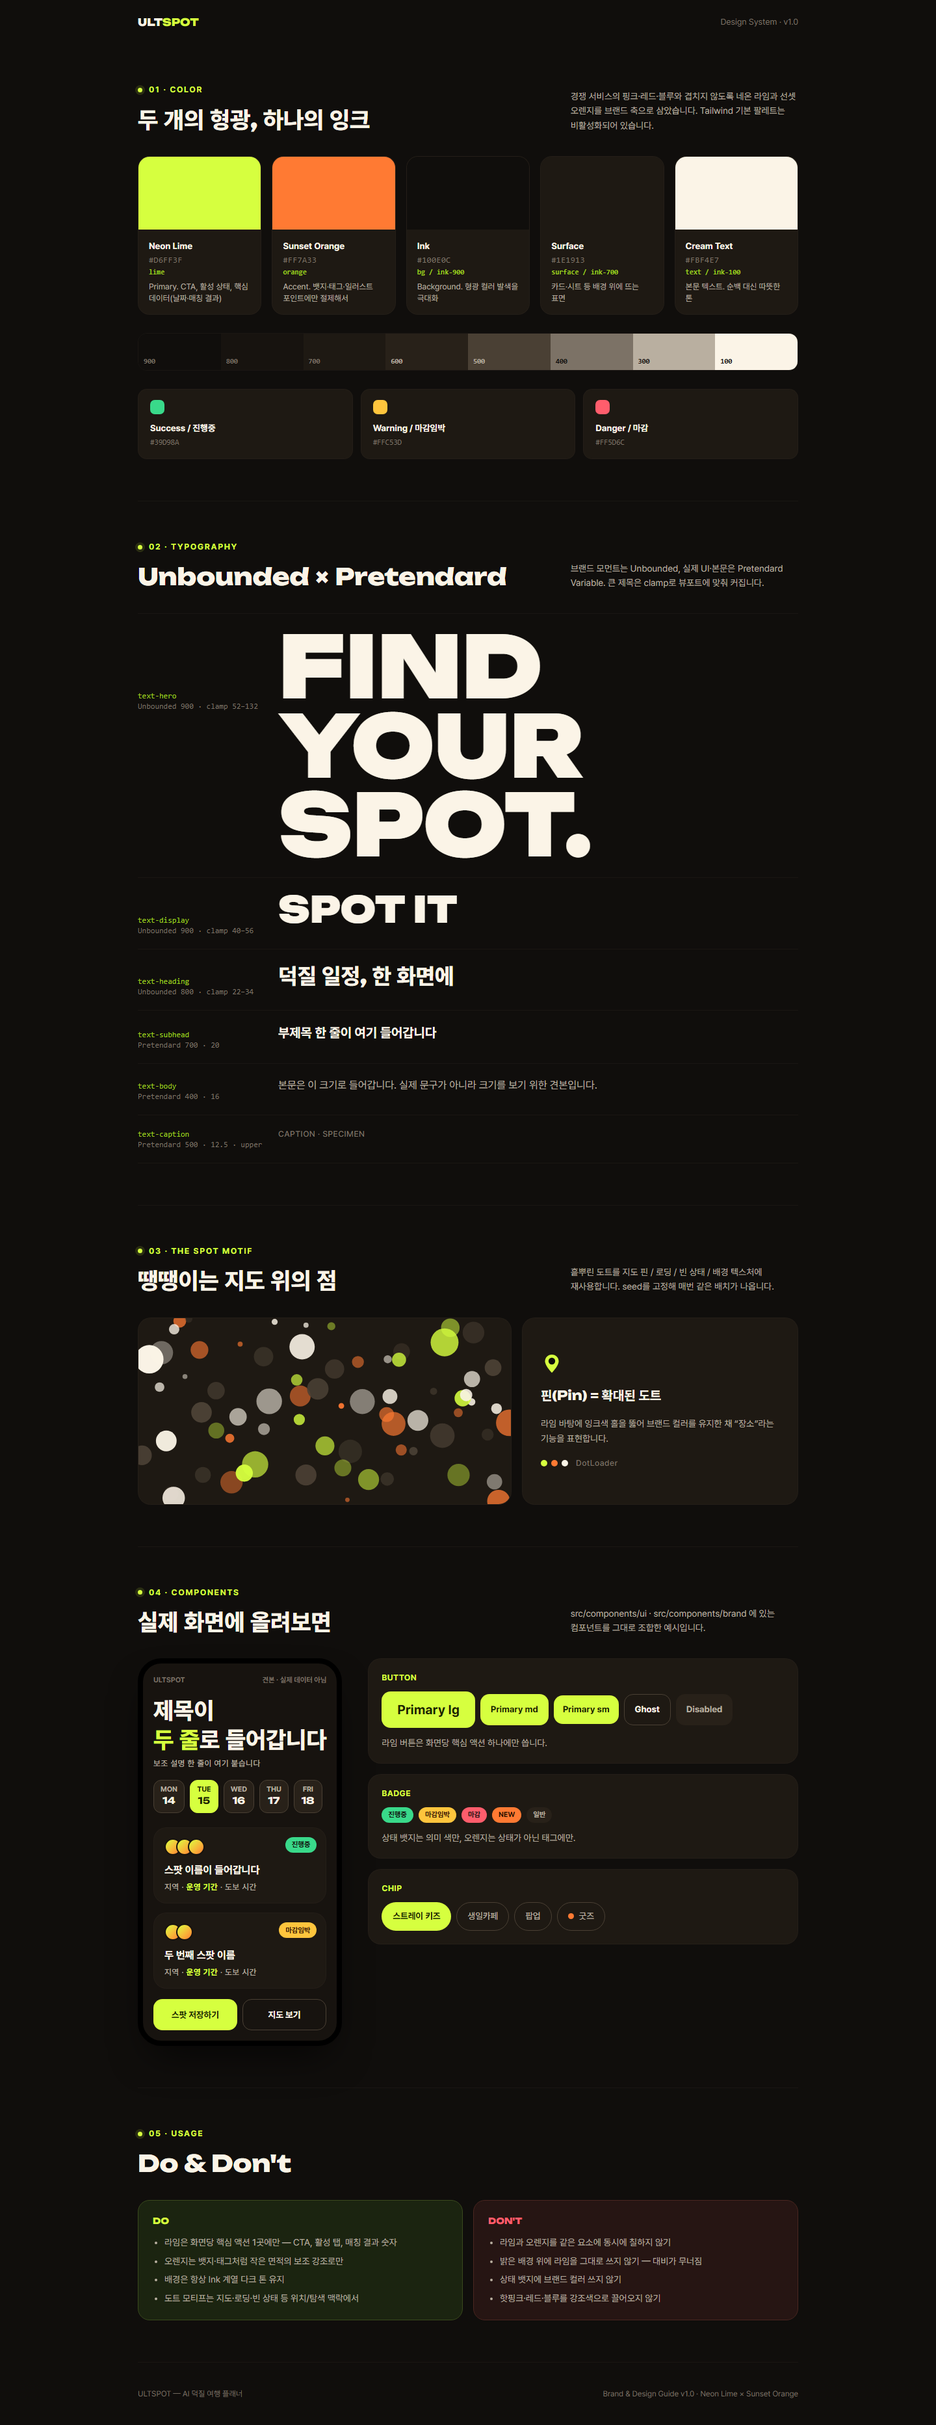
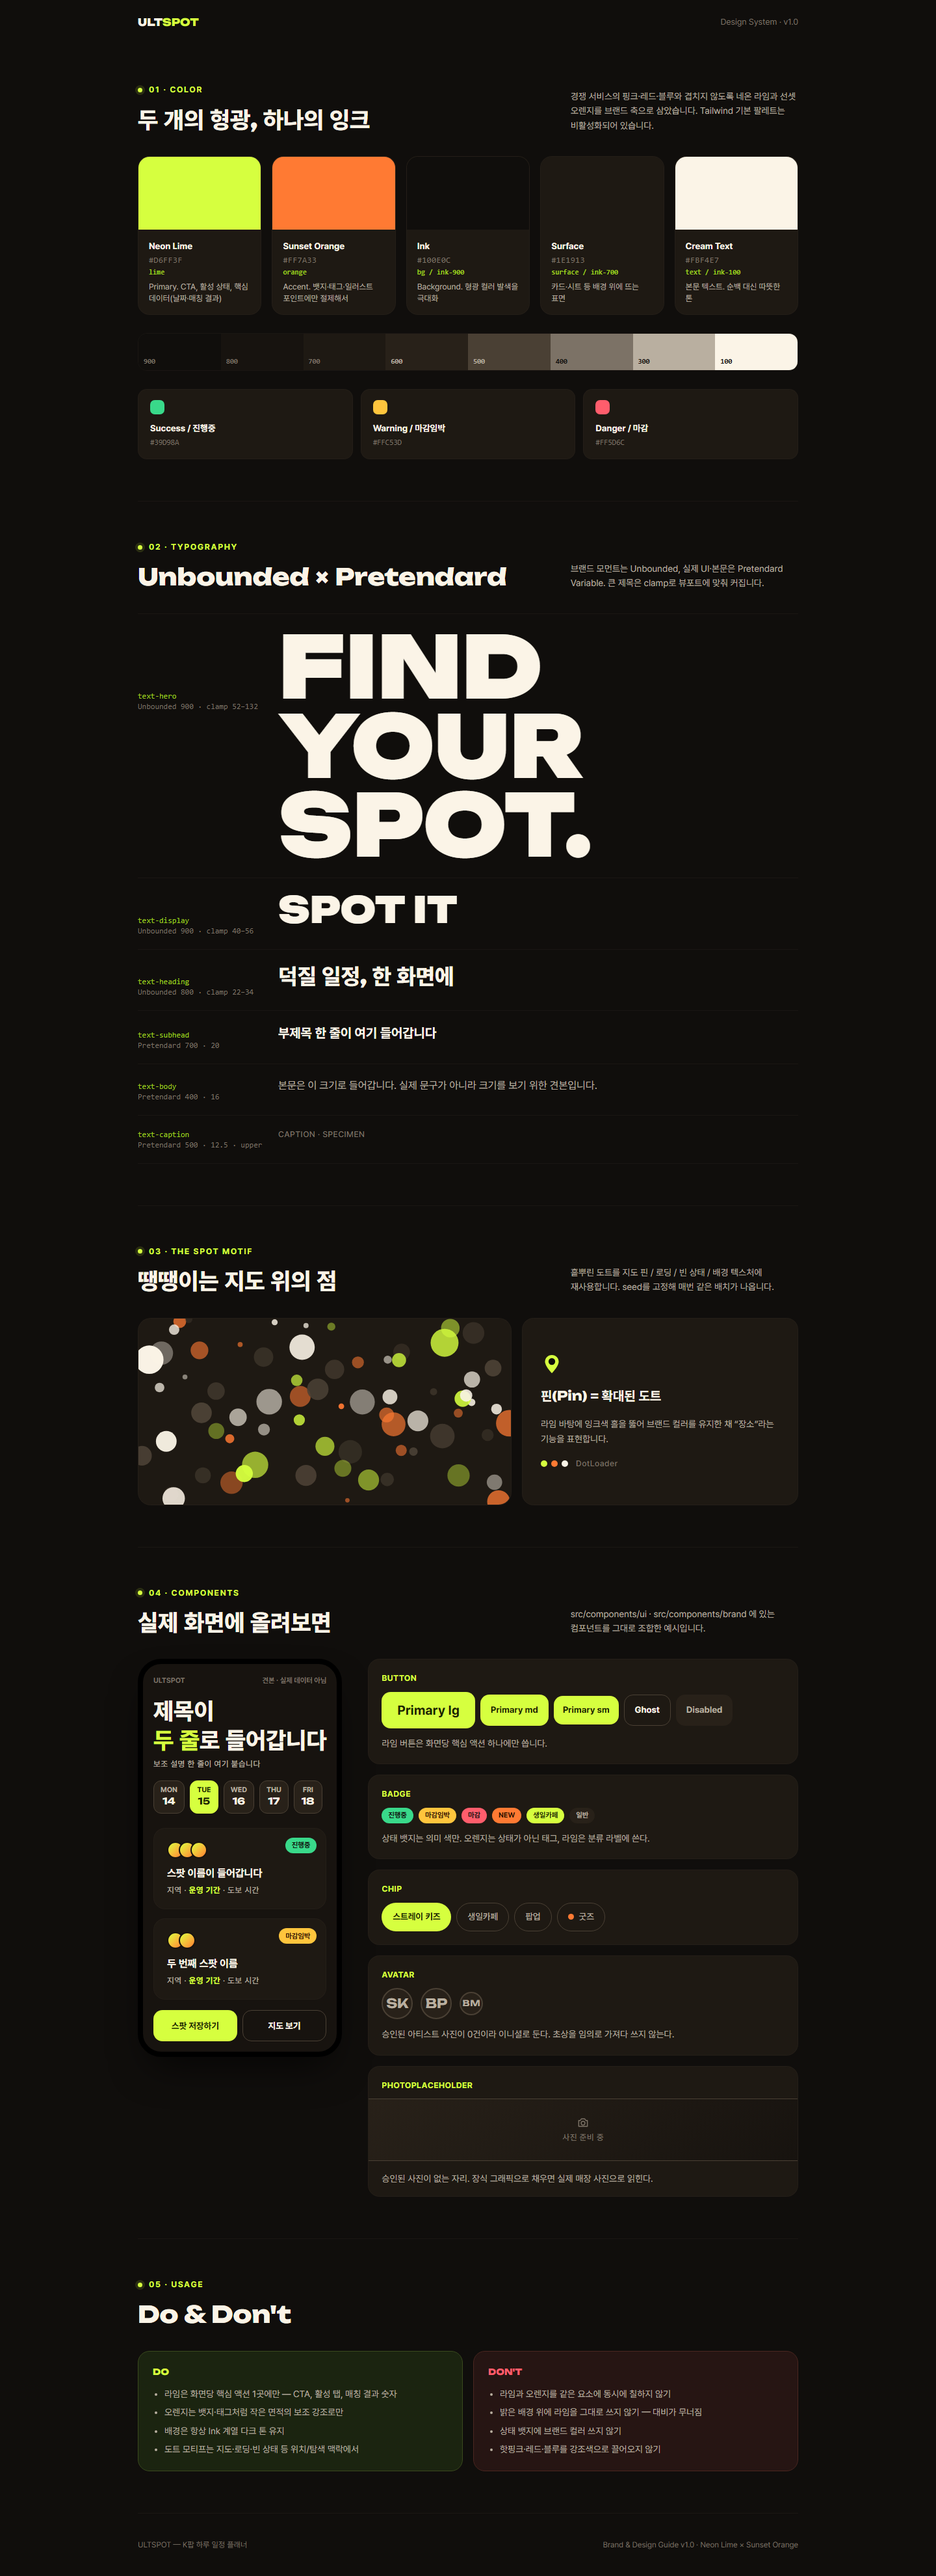
feat(ui): 기준 목업의 카드·태그 값을 맞추고 프리미티브 둘을 꺼낸다
기준 목업의 실측값과 우리 토큰을 대조했더니 대부분 이미 같았고, 어긋난
것은 카드였다. 목업의 `.spot-card`·`.qcard`는 반경 18px·여백 20px인데
우리 Card는 20px·16px였다. `radius-lg`와 `p-5`가 정확히 그 값이라 임의값
없이 맞췄다.

Badge에 `category` 톤(라임 알약)을 더했다. 목업의 `.spot-tag`에 해당하며
카드 위 분류 라벨(생일카페·팝업)에 쓴다. 운영 상태 배지와 이름을 나눈
이유는 의미 색과 섞이지 않게 하기 위해서다.

프리미티브 둘을 `src/components/ui/`로 꺼냈다. 둘 다 Kiro 담당 파일에
인라인으로 들어가 있어 목업과 맞추려면 그 파일을 고쳐야 했다. 컴포넌트로
만들어 두면 호출부 한 줄만 바꾸면 되고 동작은 그대로다. claude-visual.md에
교체 요청과 예시 코드를 남겼다.

- `PhotoPlaceholder` — 목업 `.spot-photo`(96px, 135° 그라디언트).
  이 자리를 장식 그래픽으로 채우지 않는다는 이유를 주석에 박아 뒀다.
  그럴듯한 이미지를 넣으면 실제 매장 사진으로 읽히고 승인된 이미지는 0건이다.
- `Avatar` — 목업 `.bias-avatar`. 목업이 "사진 대신 이니셜"로 그린 이유가
  데이터 상황과도 맞는다. 초상을 임의로 가져다 쓰지 않는다.

design-system footer의 "ULTSPOT — AI 덕질 여행 플래너"를 고쳤다. 같은
문구를 layout.tsx 설명에서 이미 뺐고 그 이유가 주석으로 남아 있는데
이 줄만 살아남아 있었다. 일정 계산은 규칙 기반이고 모델 호출이 없다.

검증: E2E 213건 통과·3건 skip(클라우드 키 없음), typecheck 0, lint 오류 0.
캡처를 열어 새 프리미티브 전시와 카드 반경 변화를 눈으로 확인했다.
카드 반경·여백은 모든 화면에 걸리는 변경이라 제출 이미지도 다시 찍었다.

diff --git a/src/app/design-system/page.tsx b/src/app/design-system/page.tsx
@@ -1,7 +1,7 @@
 import type { Metadata } from "next";
 import type { ReactNode } from "react";
 import { DotField, DotLoader, SpotPin, Wordmark } from "@/components/brand";
-import { AvatarStack, Badge, Button, Card, Chip, DateChip, Eyebrow } from "@/components/ui";
+import { Avatar, AvatarStack, Badge, Button, Card, Chip, DateChip, Eyebrow, PhotoPlaceholder } from "@/components/ui";
 import { color, dotPalette } from "@/design-system/tokens";
 
 export const metadata: Metadata = {
@@ -238,9 +238,10 @@ export default function DesignSystemPage() {
                 <Badge tone="closing">마감임박</Badge>
                 <Badge tone="closed">마감</Badge>
                 <Badge tone="accent">NEW</Badge>
+                <Badge tone="category">생일카페</Badge>
                 <Badge>일반</Badge>
               </div>
-              <p className="mt-3 text-body-sm text-text-muted">상태 뱃지는 의미 색만, 오렌지는 상태가 아닌 태그에만.</p>
+              <p className="mt-3 text-body-sm text-text-muted">상태 뱃지는 의미 색만. 오렌지는 상태가 아닌 태그, 라임은 분류 라벨에 쓴다.</p>
             </Card>
             <Card className="p-5">
               <div className="mb-3 text-caption font-bold text-lime uppercase">Chip</div>
@@ -250,6 +251,24 @@ export default function DesignSystemPage() {
                 <Chip>팝업</Chip>
                 <Chip dotColor={color.orange}>굿즈</Chip>
               </div>
+            </Card>
+            <Card className="p-5">
+              <div className="mb-3 text-caption font-bold text-lime uppercase">Avatar</div>
+              <div className="flex flex-wrap items-center gap-3">
+                <Avatar initials="SK" label="스트레이 키즈" />
+                <Avatar initials="BP" label="블랙핑크" />
+                <Avatar initials="BM" size="sm" label="베이비몬스터" />
+              </div>
+              <p className="mt-3 text-body-sm text-text-muted">
+                승인된 아티스트 사진이 0건이라 이니셜로 둔다. 초상을 임의로 가져다 쓰지 않는다.
+              </p>
+            </Card>
+            <Card className="overflow-hidden p-0">
+              <div className="px-5 pt-5 pb-3 text-caption font-bold text-lime uppercase">PhotoPlaceholder</div>
+              <PhotoPlaceholder label="사진 준비 중" className="border-y" />
+              <p className="px-5 py-4 text-body-sm text-text-muted">
+                승인된 사진이 없는 자리. 장식 그래픽으로 채우면 실제 매장 사진으로 읽힌다.
+              </p>
             </Card>
           </div>
         </div>
@@ -279,7 +298,9 @@ export default function DesignSystemPage() {
       </Section>
 
       <footer className="flex flex-wrap justify-between gap-2.5 py-10 text-xs text-text-faint">
-        <span>ULTSPOT — AI 덕질 여행 플래너</span>
+        {/* "AI 덕질 여행 플래너"는 없는 기능이라 layout.tsx의 설명에서 이미 뺐는데
+            이 줄만 남아 있었다. 일정 계산은 규칙 기반이고 모델 호출이 없다. */}
+        <span>ULTSPOT — K팝 하루 일정 플래너</span>
         <span>Brand &amp; Design Guide v1.0 · Neon Lime × Sunset Orange</span>
       </footer>
     </div>

diff --git a/src/components/ui/photo-placeholder.tsx b/src/components/ui/photo-placeholder.tsx
@@ -1,0 +1,26 @@
+import { CameraIcon } from "@/components/icons";
+import { cn } from "@/lib/cn";
+
+/**
+ * 승인된 사진이 없는 자리. 기준 목업의 `.spot-photo`(96px, 135° 그라디언트, 흐린 가운데 글자)다.
+ *
+ * **이 자리를 장식 그래픽으로 채우지 않는다.** 그럴듯한 이미지를 넣으면 실제 매장·행사
+ * 사진으로 읽히고, 승인된 아티스트·장소 이미지는 아직 0건이다. 비어 있다는 사실을
+ * 글자로 말하는 것이 이 컴포넌트의 목적이다. AI 생성 이미지도 같은 이유로 쓰지 않는다.
+ *
+ * `label`은 화면 언어를 따르는 문구를 호출부에서 넘긴다(`t.spots.photoPending`).
+ */
+export function PhotoPlaceholder({ label, className }: { label: string; className?: string }) {
+  return (
+    <div
+      className={cn(
+        "flex h-24 flex-col items-center justify-center gap-1 border-b border-line-strong",
+        "bg-linear-135 from-ink-600 to-ink-800 text-text-faint",
+        className,
+      )}
+    >
+      <CameraIcon className="text-subhead" />
+      <span className="text-caption">{label}</span>
+    </div>
+  );
+}

diff --git a/src/components/ui/avatar.tsx b/src/components/ui/avatar.tsx
@@ -1,0 +1,32 @@
+import { cn } from "@/lib/cn";
+
+/**
+ * 이니셜 아바타. 기준 목업의 `.bias-avatar`(원, surface-2 바탕, 2px 라인, 디스플레이 글꼴)다.
+ *
+ * 목업이 "사진 대신 이니셜"로 그린 이유가 데이터 상황과도 맞는다 — 승인된 아티스트
+ * 사진이 0건이다. 초상을 임의로 가져다 쓰지 않는다.
+ *
+ * `label`은 스크린리더용 이름(아티스트 표기 그대로)이고, 보이는 글자는 `initials`다.
+ */
+export function Avatar({ initials, label, size = "md", className }: {
+  initials: string;
+  label?: string;
+  size?: "sm" | "md";
+  className?: string;
+}) {
+  return (
+    <span
+      role={label ? "img" : undefined}
+      aria-label={label}
+      aria-hidden={label ? undefined : true}
+      className={cn(
+        "flex shrink-0 items-center justify-center rounded-full border-2 border-line-strong bg-surface-2",
+        "font-display font-bold text-text-muted",
+        size === "sm" ? "size-9 text-caption" : "size-12 text-subhead",
+        className,
+      )}
+    >
+      {initials}
+    </span>
+  );
+}

diff --git a/src/components/ui/badge.tsx b/src/components/ui/badge.tsx
@@ -7,13 +7,16 @@ import { cn } from "@/lib/cn";
  * 가이드 목업의 "Ongoing" 뱃지는 오렌지로 그려져 있지만,
  * 같은 가이드의 Don't("상태 뱃지에 브랜드 컬러 대신 의미 색상")와 충돌해 규칙 쪽을 따랐다.
  */
-export type BadgeTone = "ongoing" | "closing" | "closed" | "accent" | "neutral";
+export type BadgeTone = "ongoing" | "closing" | "closed" | "accent" | "category" | "neutral";
 
 const toneClass: Record<BadgeTone, string> = {
   ongoing: "bg-success text-ink-900",
   closing: "bg-warning text-orange-ink",
   closed: "bg-danger text-ink-900",
   accent: "bg-orange text-orange-ink",
+  // 기준 목업의 `.spot-tag` — 카드 위 분류 라벨(생일카페·팝업 등)에 쓰는 라임 알약.
+  // 운영 상태가 아니므로 위의 의미 색과 섞이지 않게 이름을 따로 뒀다.
+  category: "bg-lime font-bold text-lime-ink",
   neutral: "bg-surface-2 text-text-muted",
 };
 

diff --git a/src/components/ui/card.tsx b/src/components/ui/card.tsx
@@ -6,5 +6,7 @@ import { cn } from "@/lib/cn";
  * 다크 UI에서 그림자는 거의 보이지 않고, 라인이 더 또렷하게 분리된다.
  */
 export function Card({ className, ...props }: HTMLAttributes<HTMLDivElement>) {
-  return <div className={cn("rounded-xl border border-line bg-surface p-4", className)} {...props} />;
+  // 기준 목업의 카드는 반경 18px·여백 20px다(`.spot-card`, `.qcard`).
+  // 토큰으로 radius-lg(18px)·p-5(20px)가 정확히 그 값이라 임의값 없이 맞출 수 있다.
+  return <div className={cn("rounded-lg border border-line bg-surface p-5", className)} {...props} />;
 }

diff --git a/src/components/ui/index.ts b/src/components/ui/index.ts
@@ -1,3 +1,4 @@
+export { Avatar } from "./avatar";
 export { AvatarStack, type AvatarStackProps } from "./avatar-stack";
 export { Badge, type BadgeProps, type BadgeTone } from "./badge";
 export { Button, buttonStyles, type ButtonProps, type ButtonStyleOptions } from "./button";
@@ -5,3 +6,4 @@ export { Card } from "./card";
 export { Chip, type ChipProps } from "./chip";
 export { DateChip, type DateChipProps } from "./date-chip";
 export { Eyebrow } from "./eyebrow";
+export { PhotoPlaceholder } from "./photo-placeholder";

diff --git a/docs/handoff/claude-visual.md b/docs/handoff/claude-visual.md
@@ -112,6 +112,27 @@ pnpm capture T-0NN # 3개 뷰포트, 직접 열어 확인
 
 Kiro 담당 파일에 필요한 변경을 여기 적는다.
 
+### 새 UI 프리미티브 두 개 — 호출부 교체 요청 (T-032)
+
+기준 목업의 조각이 Kiro 담당 파일에 인라인으로 들어가 있다. `src/components/ui/`에 만들어 뒀으니 호출부만 바꿔 달라. **동작은 바뀌지 않는다.**
+
+| 새 컴포넌트 | 지금 인라인으로 있는 곳 | 목업 근거 |
+|---|---|---|
+| `PhotoPlaceholder` | `spot-card.tsx`의 `h-24 … bg-surface-2` 블록 | `.spot-photo` — 96px, 135° 그라디언트 |
+| `Avatar` | `favorite-step.tsx:49`의 `size-12 rounded-full …` | `.bias-avatar` — 원, 2px 라인, 디스플레이 글꼴 |
+
+```tsx
+// spot-card.tsx — 사진 자리
+<PhotoPlaceholder label={t.spots.photoPending} />
+
+// favorite-step.tsx — 이니셜 아바타
+<Avatar initials={initials(artist.id)} label={artist.korean ?? artist.name} />
+```
+
+`Badge`에 `tone="category"`(라임 알약)를 더했다. 목업의 `.spot-tag`에 해당하며, 카드 위 분류 라벨(생일카페·팝업)에 쓴다. 운영 상태 배지와 섞지 않는다.
+
+`Card`의 반경·여백을 목업에 맞춰 바꿨다(20px→18px, 16px→20px). 호출부 변경은 필요 없다.
+
 ### 반영 완료 — `trip-planner.tsx` 단계 레일 격자 (T-032)
 
 마감 당일 제출 이미지를 찍다가 발견해 클래스 문자열만 직접 고쳤다. 문서의 "직접 고치지 말 것" 규칙을 어긴 것이라 여기 남긴다.
